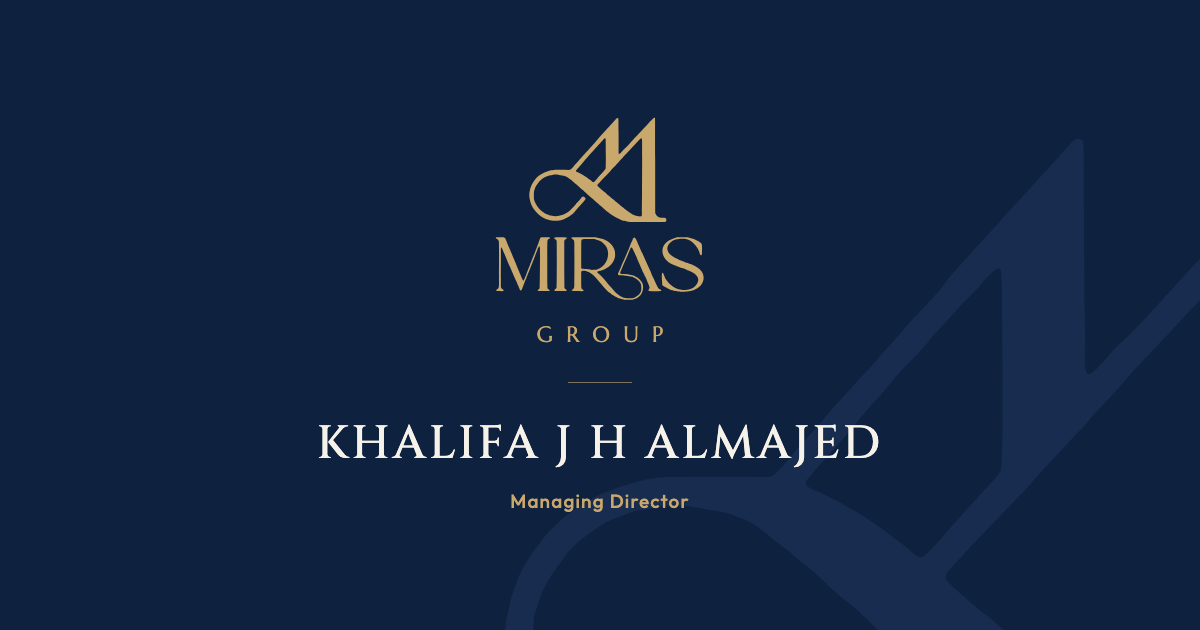
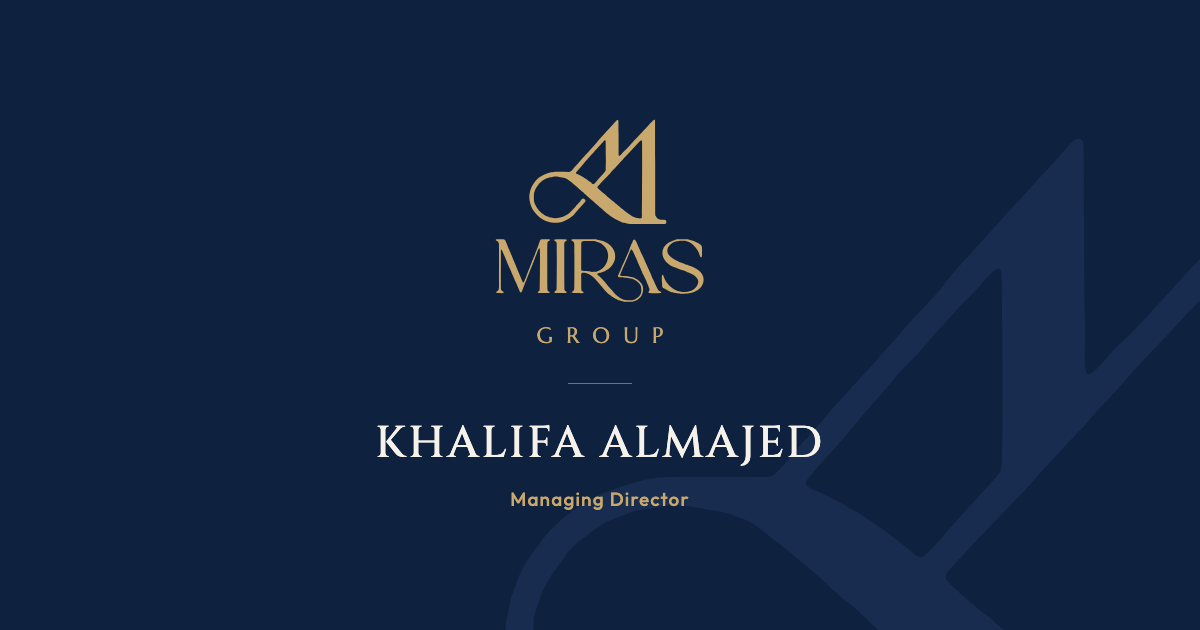
Khalifa: name without J H, Arabic title المدير التنفيذي

diff --git a/team/index.html b/team/index.html
@@ -8,4 +8,4 @@ svg{width:150px;display:block}nav{display:grid;gap:12px;width:100%;max-width:380
 a{display:flex;flex-direction:column;align-items:center;gap:6px;padding:22px 16px;border-radius:20px;background:#F6F2EA;text-decoration:none;text-align:center;transition:transform .2s}
 a:hover{transform:translateY(-2px)}.n{font-family:Cinzel,serif;font-weight:500;font-size:20px;letter-spacing:.07em}
 .a{font-family:'Noto Kufi Arabic',sans-serif;font-weight:600;font-size:17px}.r{margin-top:4px;font-size:12px;font-weight:500;letter-spacing:.04em;color:#87652F}</style>
-</head><body><svg viewBox="0 0 2752 2400" style="width:150px;display:block"><path fill="#C9A86E" fill-rule="evenodd" d="M1690.0 2393.9C1683.6 2393.4 1676.5 2391.6 1661.5 2386.7C1650.5 2383.2 1639.0 2379.7 1636.0 2379.0C1610.7 2373.2 1550.6 2341.5 1523.0 2319.5C1518.3 2315.8 1508.7 2308.8 1501.5 2304.0C1484.5 2292.4 1458.2 2266.2 1430.4 2233.0C1425.6 2227.2 1416.7 2217.1 1410.6 2210.5C1395.9 2194.6 1387.7 2185.3 1373.9 2168.9C1348.5 2138.7 1325.8 2112.8 1312.1 2098.5C1304.0 2090.1 1293.5 2079.0 1288.5 2073.8C1273.8 2058.4 1236.0 2034.0 1218.0 2028.4C1213.3 2027.0 1204.7 2024.3 1198.9 2022.4C1174.5 2014.7 1143.4 2014.6 1135.3 2022.2C1129.5 2027.7 1129.6 2025.5 1129.8 2131.5C1130.0 2251.8 1129.1 2245.9 1149.4 2259.5C1164.3 2269.4 1165.7 2274.9 1154.4 2279.6C1146.1 2283.1 1110.5 2283.8 1094.0 2280.9C1091.0 2280.3 1071.6 2279.6 1051.0 2279.1C1020.6 2278.5 1012.8 2278.1 1010.0 2276.9C1000.9 2272.8 1002.1 2268.8 1014.5 2261.3C1025.8 2254.5 1028.4 2252.0 1032.0 2244.5C1037.9 2232.4 1038.2 2230.3 1039.2 2182.0C1040.9 2100.0 1040.8 1685.7 1039.1 1649.5C1037.6 1617.9 1034.2 1611.1 1014.4 1599.4C992.2 1586.4 996.8 1577.7 1026.7 1575.9C1048.5 1574.6 1315.1 1575.6 1322.5 1577.0C1325.8 1577.6 1334.6 1579.6 1342.0 1581.5C1349.4 1583.4 1362.5 1586.1 1371.0 1587.5C1393.1 1591.3 1400.8 1593.4 1413.9 1599.4C1420.3 1602.3 1430.0 1606.1 1435.5 1607.8C1451.0 1612.7 1488.2 1635.9 1504.6 1651.1C1537.5 1681.5 1557.7 1712.1 1568.6 1748.0C1574.1 1765.8 1576.3 1813.2 1572.6 1833.1C1567.4 1861.3 1552.1 1895.5 1535.6 1915.5C1527.2 1925.7 1504.0 1951.7 1498.4 1957.2C1487.1 1968.0 1452.1 1989.7 1438.4 1994.4C1433.0 1996.2 1424.0 2000.0 1418.5 2002.7C1405.5 2009.3 1402.5 2010.2 1358.5 2020.5C1332.3 2026.6 1331.7 2031.1 1354.9 2050.3C1371.4 2064.0 1413.1 2105.1 1424.1 2118.5C1428.2 2123.4 1433.9 2130.2 1436.9 2133.5C1439.8 2136.8 1447.5 2146.0 1453.8 2154.0C1482.7 2190.2 1501.5 2212.5 1513.5 2225.0C1535.3 2247.6 1541.2 2254.1 1549.2 2264.5C1577.9 2302.2 1627.8 2342.8 1664.6 2358.5C1696.8 2372.3 1715.8 2375.5 1764.0 2375.5C1813.3 2375.4 1811.8 2375.7 1842.0 2359.1C1905.3 2324.3 1924.1 2287.5 1915.5 2215.4C1912.2 2188.2 1911.5 2185.9 1898.3 2166.0C1881.6 2140.7 1857.3 2121.6 1818.5 2103.2C1799.3 2094.0 1798.6 2093.8 1775.4 2091.0C1766.1 2089.9 1749.8 2086.9 1739.0 2084.5C1705.4 2076.9 1679.2 2074.0 1643.8 2074.0C1608.9 2074.0 1605.0 2068.7 1618.1 2039.0C1620.9 2032.7 1625.8 2021.4 1629.0 2013.9C1632.2 2006.5 1636.6 1996.8 1638.8 1992.4C1640.9 1988.1 1645.5 1977.5 1649.0 1969.0C1652.4 1960.5 1656.7 1950.5 1658.6 1946.8C1663.1 1937.9 1679.0 1901.4 1682.5 1892.0C1684.0 1887.9 1688.2 1878.4 1691.7 1871.0C1695.2 1863.6 1701.3 1849.6 1705.1 1840.0C1709.0 1830.4 1715.3 1815.8 1719.2 1807.5C1734.9 1773.9 1754.6 1728.8 1758.6 1717.0C1768.4 1688.2 1775.0 1670.1 1777.5 1664.5C1778.9 1661.2 1782.1 1653.7 1784.5 1647.8C1786.9 1641.9 1791.2 1633.1 1793.9 1628.3C1796.7 1623.4 1800.2 1615.4 1801.8 1610.5C1815.9 1567.0 1833.5 1568.8 1854.5 1615.8C1857.4 1622.3 1861.3 1630.7 1863.2 1634.5C1865.1 1638.3 1867.5 1644.0 1868.5 1647.0C1869.4 1650.0 1873.9 1660.4 1878.5 1670.0C1893.1 1700.6 1902.5 1722.1 1914.4 1751.6C1917.4 1758.8 1922.5 1770.1 1925.9 1776.6C1935.6 1795.6 1946.8 1819.5 1952.0 1832.5C1959.9 1852.3 1971.1 1877.1 1983.5 1902.5C1989.9 1915.7 1996.7 1930.4 1998.5 1935.1C2000.3 1939.8 2003.6 1947.2 2005.8 1951.6C2008.0 1955.9 2011.7 1964.0 2014.0 1969.5C2016.3 1975.0 2020.0 1983.0 2022.1 1987.2C2024.2 1991.5 2027.8 1999.5 2030.0 2005.0C2032.2 2010.6 2036.3 2020.1 2039.1 2026.2C2041.8 2032.2 2045.3 2040.4 2046.7 2044.3C2052.0 2059.3 2068.6 2097.1 2080.1 2120.8C2086.7 2134.4 2093.1 2147.8 2094.1 2150.5C2096.2 2155.7 2102.1 2168.4 2119.7 2205.4C2137.3 2242.7 2144.2 2250.6 2167.4 2260.6C2182.4 2267.0 2184.3 2276.2 2171.4 2279.9C2158.5 2283.6 2031.9 2283.3 2020.3 2279.6C2008.3 2275.8 2007.1 2268.3 2016.6 2256.9C2027.2 2244.3 2027.7 2233.6 2018.7 2212.0C2016.6 2206.8 2012.7 2196.4 2010.1 2189.0C2007.4 2181.6 2004.3 2173.6 2003.1 2171.2C2001.9 2168.9 1996.9 2157.2 1992.1 2145.2C1978.9 2113.0 1976.6 2108.0 1970.8 2097.8C1967.8 2092.7 1963.3 2083.8 1960.8 2078.0C1958.3 2072.2 1950.8 2056.4 1944.2 2042.7C1937.6 2029.1 1931.0 2014.5 1929.5 2010.2C1928.0 2006.0 1924.6 1998.2 1922.0 1993.0C1919.4 1987.8 1915.8 1979.5 1914.0 1974.5C1912.2 1969.5 1908.5 1961.1 1905.9 1955.8C1903.2 1950.4 1899.2 1941.5 1897.0 1936.0C1894.8 1930.4 1891.6 1923.2 1890.0 1919.9C1888.3 1916.6 1885.0 1908.9 1882.6 1902.7C1880.2 1896.5 1876.2 1887.4 1873.8 1882.5C1871.3 1877.5 1867.6 1869.0 1865.5 1863.5C1860.8 1850.6 1851.0 1828.0 1845.2 1816.5C1842.7 1811.5 1838.5 1802.0 1835.9 1795.2C1833.2 1788.5 1828.6 1778.1 1825.6 1772.2C1822.7 1766.3 1818.7 1757.7 1816.7 1753.0C1805.9 1727.0 1795.1 1709.0 1790.4 1709.0C1784.4 1709.0 1777.7 1715.7 1774.0 1725.6C1772.9 1728.6 1769.5 1736.5 1766.4 1743.3C1763.3 1750.0 1756.5 1766.3 1751.3 1779.5C1746.1 1792.7 1740.2 1807.5 1738.3 1812.5C1736.3 1817.5 1730.1 1831.2 1724.4 1843.1C1718.7 1855.0 1712.0 1870.1 1709.4 1876.6C1706.8 1883.1 1701.6 1895.2 1697.7 1903.5C1693.9 1911.8 1687.4 1926.8 1683.3 1937.0C1679.2 1947.2 1672.6 1962.5 1668.5 1971.0C1661.8 1985.1 1657.7 1994.6 1645.8 2024.5C1634.5 2052.6 1637.4 2055.1 1682.5 2056.1C1716.8 2056.8 1729.0 2058.2 1754.0 2064.5C1761.4 2066.3 1773.6 2068.6 1781.0 2069.5C1797.8 2071.6 1803.7 2073.0 1815.1 2078.1C1820.1 2080.3 1828.3 2083.6 1833.3 2085.6C1870.8 2100.0 1898.6 2123.2 1920.9 2159.0C1933.6 2179.2 1934.9 2182.9 1939.1 2207.5C1944.2 2237.7 1938.1 2280.7 1925.7 2302.8C1922.7 2308.1 1918.8 2315.2 1917.0 2318.5C1903.2 2343.8 1869.1 2372.4 1841.5 2381.9C1833.8 2384.6 1823.7 2388.1 1819.0 2389.8C1813.7 2391.7 1806.7 2393.3 1800.5 2394.0C1789.6 2395.2 1704.7 2395.1 1690.0 2393.9ZM2429.5 2289.0C2426.2 2288.6 2417.0 2287.9 2409.0 2287.6C2368.8 2285.8 2363.4 2284.8 2324.5 2271.8C2294.3 2261.7 2274.9 2253.2 2258.6 2243.0C2250.9 2238.3 2223.3 2222.8 2212.0 2217.0C2192.3 2206.8 2190.0 2202.0 2190.0 2171.4C2190.0 2154.9 2189.6 2147.1 2188.3 2140.0C2185.6 2125.4 2185.7 2057.7 2188.3 2050.7C2193.5 2037.4 2202.4 2041.2 2209.5 2059.5C2225.8 2101.9 2233.0 2117.7 2241.6 2129.5C2244.8 2133.9 2250.4 2141.9 2254.1 2147.2C2284.0 2190.3 2333.0 2231.7 2369.8 2245.3C2410.3 2260.3 2414.2 2261.3 2440.0 2264.5C2520.5 2274.3 2581.9 2256.8 2628.5 2210.6C2644.1 2195.2 2643.2 2196.6 2656.4 2167.3C2682.9 2108.4 2638.0 2051.0 2535.1 2012.0C2528.1 2009.4 2519.2 2005.6 2515.2 2003.6C2504.9 1998.4 2496.3 1995.1 2462.5 1983.5C2446.0 1977.8 2422.8 1969.8 2410.9 1965.7C2399.1 1961.6 2386.0 1956.8 2381.9 1955.0C2377.8 1953.2 2368.4 1949.6 2361.0 1947.0C2226.1 1900.2 2160.4 1787.3 2210.3 1688.4C2226.0 1657.3 2264.4 1623.1 2299.4 1609.0C2304.4 1607.0 2313.4 1602.8 2319.5 1599.7C2327.4 1595.6 2333.9 1593.2 2342.5 1591.1C2349.1 1589.4 2359.3 1586.3 2365.2 1584.0C2386.4 1576.0 2380.8 1576.5 2454.5 1576.5C2528.6 1576.5 2521.5 1575.8 2557.5 1586.0C2565.2 1588.2 2576.0 1591.1 2581.5 1592.4C2616.6 1600.7 2675.6 1630.7 2699.7 1652.4C2713.0 1664.4 2715.1 1682.4 2713.0 1765.5C2712.0 1802.0 2710.9 1807.9 2703.9 1811.6C2695.2 1816.0 2688.4 1807.6 2682.1 1784.5C2678.3 1770.3 2665.6 1740.3 2659.2 1730.3C2656.4 1726.0 2651.3 1717.7 2647.7 1711.8C2623.3 1671.6 2576.3 1627.7 2542.3 1613.2C2534.0 1609.6 2496.2 1598.3 2488.5 1597.1C2452.2 1591.3 2403.5 1593.9 2379.4 1603.0C2373.5 1605.2 2363.7 1608.4 2357.7 1610.0C2333.6 1616.7 2312.9 1630.1 2289.0 1654.7C2271.4 1672.6 2264.1 1687.3 2259.5 1713.7C2251.2 1761.3 2287.3 1808.0 2363.9 1848.7C2394.8 1865.1 2420.1 1877.0 2435.0 1882.2C2450.6 1887.6 2463.5 1892.2 2491.0 1902.4C2500.7 1905.9 2512.7 1910.0 2517.8 1911.4C2522.8 1912.9 2532.2 1916.0 2538.7 1918.4C2545.2 1920.8 2554.9 1924.1 2560.2 1925.8C2565.5 1927.5 2574.9 1931.5 2581.2 1934.6C2587.4 1937.7 2596.0 1941.7 2600.3 1943.5C2639.8 1960.2 2690.0 1997.5 2708.1 2023.7C2744.6 2076.5 2742.7 2144.8 2703.4 2197.3C2671.7 2239.6 2599.7 2277.7 2542.4 2282.5C2533.0 2283.3 2518.6 2285.1 2510.4 2286.6C2494.5 2289.5 2443.8 2291.0 2429.5 2289.0ZM71.9 2281.6C71.6 2281.3 60.1 2280.6 46.4 2280.1C19.3 2279.2 15.0 2278.3 12.8 2273.5C11.0 2269.5 13.2 2266.9 23.0 2261.1C50.5 2245.1 53.7 2233.3 52.1 2152.0C51.6 2124.4 51.7 2028.5 52.3 1916.0C53.4 1709.6 52.7 1640.8 49.6 1629.5C45.0 1613.2 37.2 1603.7 22.3 1596.3C6.3 1588.4 5.5 1580.1 20.5 1577.0C27.7 1575.5 99.5 1574.8 109.5 1576.1C126.8 1578.4 134.6 1586.0 141.5 1607.0C143.0 1611.7 146.5 1620.5 149.3 1626.5C152.0 1632.5 156.0 1642.3 158.1 1648.3C160.2 1654.2 164.0 1663.4 166.4 1668.8C168.9 1674.1 172.2 1682.2 173.9 1686.6C175.5 1691.1 179.1 1699.2 181.8 1704.6C184.5 1710.1 188.2 1718.5 190.0 1723.5C191.8 1728.5 195.3 1736.5 197.7 1741.4C200.1 1746.3 203.5 1754.1 205.1 1758.9C206.8 1763.6 210.6 1772.7 213.7 1779.0C216.7 1785.3 220.7 1794.9 222.6 1800.3C224.5 1805.7 227.9 1814.0 230.1 1818.8C232.4 1823.6 236.3 1833.3 238.9 1840.5C241.6 1847.7 245.4 1856.9 247.5 1861.0C249.5 1865.1 252.7 1872.3 254.6 1877.0C256.4 1881.7 260.1 1890.2 262.8 1896.0C265.5 1901.8 269.0 1910.3 270.5 1915.0C272.0 1919.7 275.7 1928.9 278.6 1935.5C283.9 1947.7 292.0 1967.4 301.5 1992.0C304.4 1999.4 308.9 2010.0 311.5 2015.5C314.1 2021.0 318.2 2030.5 320.5 2036.5C322.9 2042.5 326.3 2050.7 328.0 2054.5C329.8 2058.3 332.9 2066.0 335.0 2071.5C337.0 2077.0 341.0 2086.7 343.7 2093.0C346.5 2099.3 351.8 2112.1 355.6 2121.4C370.2 2157.2 375.6 2153.7 396.6 2095.0C398.1 2090.9 401.6 2082.4 404.5 2076.0C407.4 2069.7 411.2 2059.8 413.0 2054.0C414.8 2048.2 418.4 2038.7 421.0 2032.9C423.7 2027.1 427.1 2018.2 428.5 2013.2C430.0 2008.1 433.3 1999.4 435.9 1993.7C438.6 1988.1 442.1 1979.2 443.8 1974.0C445.4 1968.8 448.9 1960.1 451.4 1954.7C453.9 1949.3 457.2 1941.0 458.6 1936.2C460.1 1931.4 463.9 1921.9 467.1 1915.0C470.4 1908.1 474.6 1896.9 476.5 1890.2C478.4 1883.5 481.5 1874.9 483.4 1871.1C485.4 1867.3 488.7 1859.1 490.9 1852.8C493.0 1846.5 496.6 1837.7 498.9 1833.2C501.1 1828.7 505.0 1819.3 507.4 1812.3C509.8 1805.3 514.2 1794.3 517.2 1788.0C520.2 1781.7 524.4 1771.3 526.5 1765.0C528.5 1758.7 532.2 1748.9 534.6 1743.3C537.0 1737.7 540.5 1729.0 542.4 1723.8C544.2 1718.7 547.6 1710.2 549.8 1705.0C552.0 1699.8 554.8 1691.7 556.0 1687.0C557.2 1682.4 560.5 1673.4 563.5 1667.0C566.4 1660.7 570.0 1651.2 571.5 1646.0C572.9 1640.8 576.1 1631.5 578.4 1625.5C580.8 1619.5 583.9 1609.9 585.5 1604.3C590.6 1585.4 596.8 1579.2 612.5 1577.1C623.7 1575.6 705.7 1575.3 710.6 1576.8C724.2 1580.8 723.5 1589.4 709.0 1597.1C689.7 1607.4 686.9 1613.4 685.8 1646.5C684.8 1678.9 684.7 2093.7 685.7 2175.0C686.7 2250.8 685.9 2247.5 705.6 2260.5C720.5 2270.3 719.2 2277.7 702.1 2281.0C692.6 2282.8 586.3 2281.1 572.6 2279.0C557.1 2276.6 554.2 2269.6 565.7 2262.4C576.3 2255.8 582.2 2248.8 585.3 2239.5C588.7 2229.2 591.1 1730.7 587.9 1712.3C584.2 1691.5 579.9 1689.9 570.9 1706.0C561.4 1723.1 559.1 1727.7 557.6 1732.5C552.9 1748.2 551.4 1752.4 547.1 1761.9C544.4 1767.7 541.0 1776.3 539.5 1781.0C537.9 1785.6 534.7 1793.8 532.4 1799.2C530.0 1804.5 526.9 1813.1 525.5 1818.2C522.3 1829.7 520.3 1835.1 515.2 1846.1C513.0 1850.8 509.6 1859.8 507.5 1866.1C505.5 1872.4 501.6 1882.2 499.0 1888.0C496.4 1893.8 493.2 1901.9 492.0 1906.0C490.7 1910.1 487.2 1919.1 484.0 1926.0C480.8 1932.9 477.3 1941.9 476.1 1946.0C474.8 1950.1 471.8 1958.0 469.3 1963.4C466.9 1968.8 463.3 1977.6 461.5 1982.9C459.6 1988.2 455.7 1998.2 452.7 2005.0C449.7 2011.9 445.7 2021.8 443.7 2027.0C441.8 2032.2 438.1 2040.7 435.6 2045.9C433.1 2051.1 429.4 2060.6 427.4 2066.9C425.4 2073.3 422.4 2081.2 420.8 2084.5C419.1 2087.7 415.8 2096.5 413.4 2103.9C410.8 2111.8 407.0 2120.9 404.2 2125.9C399.2 2134.6 389.6 2158.6 379.4 2187.5C373.0 2205.9 355.3 2251.1 350.6 2261.5C342.2 2279.8 331.7 2277.7 322.3 2255.9C320.0 2250.7 313.2 2234.1 307.0 2219.0C300.8 2203.9 293.5 2186.6 290.8 2180.5C288.0 2174.4 284.0 2165.3 281.8 2160.1C279.6 2154.9 276.3 2147.5 274.3 2143.7C272.4 2139.8 268.2 2130.6 265.0 2123.1C258.1 2106.8 245.3 2078.5 241.7 2071.4C240.3 2068.6 237.3 2060.9 235.0 2054.4C232.8 2047.9 228.9 2038.7 226.4 2034.0C223.8 2029.3 219.8 2020.5 217.5 2014.5C215.1 2008.5 210.9 1998.8 208.2 1993.0C205.5 1987.2 202.5 1980.0 201.5 1977.0C200.5 1974.0 197.2 1966.5 194.2 1960.5C184.0 1940.1 168.0 1902.3 155.5 1869.5C152.6 1861.8 147.8 1850.3 144.7 1844.0C141.7 1837.7 134.4 1820.8 128.5 1806.6C122.6 1792.3 116.0 1776.8 113.8 1772.1C111.6 1767.4 107.8 1758.3 105.3 1752.0C96.5 1729.3 85.3 1710.2 81.7 1711.6C77.7 1713.1 77.5 1716.4 77.4 1773.5C76.3 2267.6 76.0 2229.2 81.6 2240.7C84.9 2247.6 93.6 2255.3 104.8 2261.3C119.0 2269.0 119.2 2274.1 105.4 2278.9C98.6 2281.2 73.5 2283.3 71.9 2281.6ZM796.5 2281.3C795.4 2281.1 792.1 2280.4 789.2 2279.9C774.3 2277.0 774.1 2268.1 788.6 2258.2C797.3 2252.4 803.9 2245.4 806.9 2239.0C810.5 2231.5 811.1 1631.2 807.6 1621.0C805.2 1614.2 799.0 1607.8 786.3 1599.2C772.1 1589.4 770.7 1583.4 781.5 1578.0C790.6 1573.4 927.3 1574.2 937.0 1578.8C944.9 1582.6 944.4 1589.1 935.7 1594.5C906.1 1612.8 907.7 1607.4 907.7 1693.0C907.8 1972.2 909.6 2236.6 911.4 2241.2C914.1 2248.3 920.1 2254.4 930.5 2260.5C939.9 2266.0 941.0 2267.2 941.0 2271.5C941.0 2279.9 932.4 2281.0 879.5 2279.6C855.1 2278.9 848.7 2279.0 839.0 2280.4C828.6 2281.9 801.7 2282.5 796.5 2281.3ZM1313.0 2003.0C1323.4 2001.8 1330.1 1999.6 1359.5 1987.4C1382.1 1978.1 1414.8 1954.3 1430.2 1936.1C1484.4 1871.8 1497.4 1783.0 1463.3 1710.0C1442.4 1665.2 1388.7 1620.8 1342.9 1610.4C1337.1 1609.1 1327.4 1606.5 1321.4 1604.6C1302.2 1598.6 1300.2 1598.5 1250.0 1598.8C1149.1 1599.5 1140.4 1600.6 1133.5 1614.5C1130.5 1620.5 1130.5 1620.5 1130.0 1785.2C1129.4 1969.7 1129.5 1977.6 1132.6 1983.5C1136.7 1991.3 1137.1 1991.4 1175.0 1992.1C1206.8 1992.7 1245.0 1997.7 1269.0 2004.5C1271.5 2005.2 1303.9 2004.1 1313.0 2003.0ZM1781.9 1376.9C1764.1 1375.2 1726.6 1369.1 1718.0 1366.5C1713.3 1365.1 1702.8 1362.4 1694.5 1360.4C1669.8 1354.6 1668.3 1354.2 1647.0 1345.3C1607.2 1328.8 1595.3 1322.7 1553.5 1297.2C1525.2 1279.9 1490.0 1254.8 1469.0 1237.0C1466.0 1234.4 1457.0 1227.2 1449.0 1221.0C1441.0 1214.8 1424.6 1200.9 1412.5 1190.1C1400.4 1179.3 1387.1 1167.6 1383.0 1164.0C1378.9 1160.4 1368.7 1151.1 1360.3 1143.3C1352.0 1135.5 1340.3 1125.2 1334.3 1120.5C1328.4 1115.7 1316.5 1105.4 1308.0 1097.5C1299.5 1089.7 1286.9 1078.6 1280.0 1072.9C1273.1 1067.3 1260.3 1055.6 1251.5 1047.0C1241.2 1036.9 1230.5 1027.6 1221.5 1021.0C1211.4 1013.6 1201.6 1004.9 1186.5 990.0C1159.8 963.9 1154.8 959.3 1141.4 949.0C1126.9 937.9 1119.2 931.1 1096.5 909.9C1086.0 900.2 1071.4 887.1 1064.0 881.0C1056.6 874.9 1045.4 865.5 1039.2 860.2C1033.0 854.9 1024.2 847.7 1019.7 844.2C1015.2 840.7 1001.4 829.8 989.0 819.9C951.1 789.7 944.1 785.3 921.0 777.0C914.7 774.7 906.4 771.7 902.7 770.4C896.5 768.1 872.7 763.7 827.6 756.4C798.0 751.7 783.8 752.1 752.0 758.5C742.9 760.3 732.4 762.1 728.5 762.5C716.8 763.6 708.1 766.0 694.0 771.7C686.6 774.8 676.7 778.6 672.0 780.1C652.8 786.7 606.0 819.0 585.8 839.7C582.2 843.4 574.1 853.7 567.8 862.5C532.6 911.8 530.8 915.2 517.0 957.5C510.8 976.5 510.8 976.5 509.9 997.5C508.9 1021.3 509.7 1067.6 511.2 1076.4C512.3 1083.4 524.8 1118.7 529.4 1128.0C558.3 1186.8 588.2 1220.5 642.5 1255.5C657.1 1264.9 660.2 1266.6 669.6 1270.0C674.5 1271.8 683.8 1275.7 690.3 1278.7C696.9 1281.7 706.1 1285.0 710.8 1286.2C715.6 1287.3 726.0 1290.0 734.0 1292.1C768.5 1301.6 810.0 1302.7 839.5 1294.9C845.5 1293.3 857.9 1290.2 866.9 1287.9C930.1 1272.2 983.4 1231.4 1062.0 1138.7C1067.2 1132.5 1079.9 1118.9 1090.2 1108.3C1102.3 1095.9 1112.5 1084.3 1119.1 1075.5C1145.8 1039.8 1155.9 1035.6 1174.3 1052.9C1191.5 1069.1 1191.0 1075.4 1171.1 1096.9C1164.5 1104.1 1155.1 1115.2 1150.3 1121.7C1145.5 1128.2 1134.3 1140.9 1125.4 1150.0C1103.5 1172.5 1062.7 1218.5 1042.2 1243.6C1035.3 1252.2 1021.8 1265.2 1006.0 1278.7C976.2 1304.2 933.1 1329.7 903.5 1339.5C896.4 1341.8 886.6 1345.4 881.8 1347.4C841.9 1364.0 745.0 1364.0 699.2 1347.4C693.8 1345.5 683.4 1342.1 676.0 1339.9C655.1 1333.6 625.2 1317.4 591.5 1293.8C544.3 1260.9 488.7 1191.0 475.3 1148.0C473.9 1143.3 470.7 1134.5 468.4 1128.5C462.9 1114.3 459.5 1101.1 458.0 1088.5C457.4 1083.0 455.8 1074.7 454.5 1070.0C448.7 1049.4 448.0 995.9 453.4 977.0C454.9 971.8 457.0 962.3 458.1 956.0C460.0 945.0 462.3 937.7 474.3 904.2C482.0 882.7 497.2 856.5 514.2 835.2C517.7 830.8 523.8 822.7 527.9 817.1C561.1 771.6 628.5 729.0 700.0 708.3C741.1 696.4 738.7 696.9 777.0 693.9C790.5 692.8 871.6 692.6 968.5 693.4C991.2 693.6 996.5 689.5 1034.3 643.2C1040.0 636.2 1048.7 626.1 1053.6 620.6C1079.0 592.5 1086.1 584.4 1095.5 573.0C1110.6 554.5 1139.4 522.7 1174.8 485.3C1183.8 475.8 1195.3 463.0 1200.3 456.8C1205.3 450.6 1215.6 439.0 1223.3 431.0C1231.0 423.0 1243.4 408.9 1250.8 399.5C1259.6 388.4 1272.2 374.5 1287.0 359.5C1310.7 335.5 1322.5 322.1 1335.2 305.4C1344.9 292.6 1358.6 276.3 1370.9 263.0C1376.3 257.2 1384.4 248.2 1389.0 243.0C1393.5 237.8 1405.4 224.7 1415.4 214.0C1440.8 186.7 1442.3 185.0 1454.5 171.0C1460.5 164.1 1473.8 149.5 1484.0 138.5C1494.2 127.5 1507.9 112.4 1514.5 105.0C1521.1 97.6 1533.5 84.1 1542.1 75.0C1550.7 65.9 1561.3 54.4 1565.6 49.4C1570.0 44.4 1577.6 35.6 1582.6 29.8C1596.9 13.5 1604.8 9.6 1611.8 15.5C1619.0 21.5 1618.4 8.1 1619.3 188.5C1620.6 478.5 1620.6 476.5 1623.3 480.1C1629.4 488.1 1637.9 482.0 1666.7 449.0C1671.7 443.2 1688.5 426.2 1704.0 411.1C1719.4 396.1 1736.2 379.2 1741.2 373.6C1746.2 368.1 1755.8 357.4 1762.4 350.0C1769.1 342.6 1779.2 331.6 1785.0 325.5C1790.8 319.5 1798.0 311.6 1801.0 308.0C1811.8 295.2 1822.8 283.2 1842.5 263.0C1860.2 244.8 1903.3 198.6 1933.0 166.0C1938.7 159.7 1953.8 143.7 1966.6 130.5C1979.3 117.3 1997.1 98.4 2006.2 88.5C2038.7 53.0 2080.0 12.2 2084.8 10.9C2090.1 9.4 2093.5 10.4 2096.4 14.3C2098.5 17.1 2098.5 17.1 2099.2 564.3C2100.1 1314.2 2099.4 1252.6 2107.6 1272.1C2115.2 1290.2 2120.3 1296.3 2135.5 1305.8C2154.6 1317.6 2159.7 1318.8 2198.0 1319.8C2237.6 1320.9 2243.7 1324.6 2245.6 1348.5C2247.6 1371.7 2233.9 1379.3 2194.3 1377.1C2175.4 1376.0 1928.4 1376.2 1836.0 1377.3C1811.5 1377.6 1787.2 1377.4 1781.9 1376.9ZM1912.5 1301.9C1923.9 1299.0 1924.7 1296.0 1925.4 1251.5C1927.9 1107.3 1929.2 339.1 1927.1 305.5C1924.7 267.2 1920.3 267.5 1882.4 308.2C1872.0 319.4 1854.1 338.2 1842.5 350.0C1831.0 361.8 1817.2 376.4 1811.9 382.5C1806.6 388.6 1788.9 407.5 1772.4 424.5C1742.1 456.0 1718.9 481.0 1706.4 495.5C1702.7 499.9 1696.6 506.7 1693.0 510.5C1689.4 514.4 1682.6 522.1 1677.8 527.6C1673.0 533.2 1662.3 544.8 1654.0 553.5C1645.7 562.1 1634.6 574.4 1629.3 580.8C1623.9 587.2 1613.5 598.8 1606.0 606.5C1598.5 614.2 1587.9 625.5 1582.5 631.5C1577.1 637.5 1566.5 648.8 1559.0 656.5C1542.7 673.3 1530.9 686.2 1513.0 707.0C1500.2 721.8 1477.8 745.5 1437.0 787.5C1402.8 822.6 1390.5 835.4 1381.5 845.4C1376.5 850.9 1365.9 862.5 1357.8 871.2C1333.7 897.1 1333.6 896.4 1372.9 931.5C1380.2 938.1 1389.7 946.6 1393.9 950.3C1398.1 954.1 1407.3 961.6 1414.5 966.9C1421.7 972.3 1432.9 981.5 1439.5 987.4C1446.1 993.3 1457.1 1002.7 1464.0 1008.3C1470.9 1013.8 1485.0 1025.9 1495.5 1035.0C1506.0 1044.1 1521.5 1057.2 1530.0 1064.0C1538.5 1070.8 1548.2 1078.8 1551.5 1081.8C1554.7 1084.8 1564.9 1093.2 1574.0 1100.5C1583.1 1107.7 1594.5 1117.4 1599.5 1122.0C1604.5 1126.5 1613.9 1134.6 1620.5 1139.8C1627.1 1145.1 1640.4 1156.2 1650.0 1164.5C1670.9 1182.5 1679.2 1189.2 1692.5 1199.0C1698.0 1203.0 1706.1 1209.3 1710.5 1213.0C1739.1 1236.8 1793.5 1273.1 1813.1 1281.5C1845.9 1295.6 1896.4 1305.9 1912.5 1301.9ZM1299.3 849.2C1304.8 844.9 1321.7 826.7 1337.0 808.5C1347.6 796.0 1364.5 777.0 1391.6 747.5C1455.8 677.3 1450.7 686.5 1450.8 641.0C1450.8 627.5 1451.4 605.2 1452.0 591.5C1452.9 572.5 1452.9 550.1 1452.1 498.0C1451.5 460.3 1451.0 398.4 1451.0 360.5C1451.0 313.8 1450.6 290.2 1449.9 287.5C1445.9 272.8 1436.4 277.4 1412.7 305.5C1407.1 312.1 1393.7 326.5 1382.9 337.5C1372.1 348.5 1360.1 361.2 1356.3 365.6C1352.6 370.1 1341.6 382.0 1332.0 392.1C1322.4 402.2 1310.2 416.1 1305.0 423.0C1298.9 431.0 1286.3 444.9 1270.1 461.5C1256.1 475.8 1239.7 493.6 1233.7 501.0C1222.5 514.7 1205.0 534.9 1184.0 558.5C1177.6 565.6 1169.3 575.3 1165.5 580.0C1143.6 607.1 1118.1 636.6 1093.1 664.0C1060.0 700.1 1057.0 705.1 1063.6 713.0C1066.6 716.5 1069.3 718.0 1085.4 724.9C1114.3 737.3 1170.1 769.2 1199.6 790.3C1204.9 794.0 1212.4 799.2 1216.3 801.9C1220.3 804.6 1226.2 809.1 1229.5 812.0C1232.8 814.8 1240.0 820.2 1245.5 824.0C1251.0 827.8 1260.5 835.4 1266.7 840.9C1283.9 856.3 1288.6 857.4 1299.3 849.2Z"/></svg><nav><a href="../saeed/"><span class="n">SAEED TAHERI</span><span class="a">سعيد طاهري</span><span class="r">CEO</span></a><a href="../rami/"><span class="n">RAMI ZIENDDINE</span><span class="a">رامي زين الدين</span><span class="r">Head of Sales &amp; Business Development</span></a><a href="../mohamed/"><span class="n">MOHAMED AMINE HAMED</span><span class="a">محمد امين حامد</span><span class="r">Public Relations Manager</span></a><a href="../khalifa/"><span class="n">KHALIFA J H ALMAJED</span><span class="a">خليفة الماجد</span><span class="r">Managing Director</span></a><a href="../hanoof/"><span class="n">HANOOF AHMED ALQASSIMI</span><span class="a">هنوف احمد القاسمي</span><span class="r">Head of Sales &amp; Business Development</span></a><a href="../sameh/"><span class="n">SAMEH HASSAN</span><span class="a">سامح حسن</span><span class="r">Sales Manager</span></a></nav></body></html>
+</head><body><svg viewBox="0 0 2752 2400" style="width:150px;display:block"><path fill="#C9A86E" fill-rule="evenodd" d="M1690.0 2393.9C1683.6 2393.4 1676.5 2391.6 1661.5 2386.7C1650.5 2383.2 1639.0 2379.7 1636.0 2379.0C1610.7 2373.2 1550.6 2341.5 1523.0 2319.5C1518.3 2315.8 1508.7 2308.8 1501.5 2304.0C1484.5 2292.4 1458.2 2266.2 1430.4 2233.0C1425.6 2227.2 1416.7 2217.1 1410.6 2210.5C1395.9 2194.6 1387.7 2185.3 1373.9 2168.9C1348.5 2138.7 1325.8 2112.8 1312.1 2098.5C1304.0 2090.1 1293.5 2079.0 1288.5 2073.8C1273.8 2058.4 1236.0 2034.0 1218.0 2028.4C1213.3 2027.0 1204.7 2024.3 1198.9 2022.4C1174.5 2014.7 1143.4 2014.6 1135.3 2022.2C1129.5 2027.7 1129.6 2025.5 1129.8 2131.5C1130.0 2251.8 1129.1 2245.9 1149.4 2259.5C1164.3 2269.4 1165.7 2274.9 1154.4 2279.6C1146.1 2283.1 1110.5 2283.8 1094.0 2280.9C1091.0 2280.3 1071.6 2279.6 1051.0 2279.1C1020.6 2278.5 1012.8 2278.1 1010.0 2276.9C1000.9 2272.8 1002.1 2268.8 1014.5 2261.3C1025.8 2254.5 1028.4 2252.0 1032.0 2244.5C1037.9 2232.4 1038.2 2230.3 1039.2 2182.0C1040.9 2100.0 1040.8 1685.7 1039.1 1649.5C1037.6 1617.9 1034.2 1611.1 1014.4 1599.4C992.2 1586.4 996.8 1577.7 1026.7 1575.9C1048.5 1574.6 1315.1 1575.6 1322.5 1577.0C1325.8 1577.6 1334.6 1579.6 1342.0 1581.5C1349.4 1583.4 1362.5 1586.1 1371.0 1587.5C1393.1 1591.3 1400.8 1593.4 1413.9 1599.4C1420.3 1602.3 1430.0 1606.1 1435.5 1607.8C1451.0 1612.7 1488.2 1635.9 1504.6 1651.1C1537.5 1681.5 1557.7 1712.1 1568.6 1748.0C1574.1 1765.8 1576.3 1813.2 1572.6 1833.1C1567.4 1861.3 1552.1 1895.5 1535.6 1915.5C1527.2 1925.7 1504.0 1951.7 1498.4 1957.2C1487.1 1968.0 1452.1 1989.7 1438.4 1994.4C1433.0 1996.2 1424.0 2000.0 1418.5 2002.7C1405.5 2009.3 1402.5 2010.2 1358.5 2020.5C1332.3 2026.6 1331.7 2031.1 1354.9 2050.3C1371.4 2064.0 1413.1 2105.1 1424.1 2118.5C1428.2 2123.4 1433.9 2130.2 1436.9 2133.5C1439.8 2136.8 1447.5 2146.0 1453.8 2154.0C1482.7 2190.2 1501.5 2212.5 1513.5 2225.0C1535.3 2247.6 1541.2 2254.1 1549.2 2264.5C1577.9 2302.2 1627.8 2342.8 1664.6 2358.5C1696.8 2372.3 1715.8 2375.5 1764.0 2375.5C1813.3 2375.4 1811.8 2375.7 1842.0 2359.1C1905.3 2324.3 1924.1 2287.5 1915.5 2215.4C1912.2 2188.2 1911.5 2185.9 1898.3 2166.0C1881.6 2140.7 1857.3 2121.6 1818.5 2103.2C1799.3 2094.0 1798.6 2093.8 1775.4 2091.0C1766.1 2089.9 1749.8 2086.9 1739.0 2084.5C1705.4 2076.9 1679.2 2074.0 1643.8 2074.0C1608.9 2074.0 1605.0 2068.7 1618.1 2039.0C1620.9 2032.7 1625.8 2021.4 1629.0 2013.9C1632.2 2006.5 1636.6 1996.8 1638.8 1992.4C1640.9 1988.1 1645.5 1977.5 1649.0 1969.0C1652.4 1960.5 1656.7 1950.5 1658.6 1946.8C1663.1 1937.9 1679.0 1901.4 1682.5 1892.0C1684.0 1887.9 1688.2 1878.4 1691.7 1871.0C1695.2 1863.6 1701.3 1849.6 1705.1 1840.0C1709.0 1830.4 1715.3 1815.8 1719.2 1807.5C1734.9 1773.9 1754.6 1728.8 1758.6 1717.0C1768.4 1688.2 1775.0 1670.1 1777.5 1664.5C1778.9 1661.2 1782.1 1653.7 1784.5 1647.8C1786.9 1641.9 1791.2 1633.1 1793.9 1628.3C1796.7 1623.4 1800.2 1615.4 1801.8 1610.5C1815.9 1567.0 1833.5 1568.8 1854.5 1615.8C1857.4 1622.3 1861.3 1630.7 1863.2 1634.5C1865.1 1638.3 1867.5 1644.0 1868.5 1647.0C1869.4 1650.0 1873.9 1660.4 1878.5 1670.0C1893.1 1700.6 1902.5 1722.1 1914.4 1751.6C1917.4 1758.8 1922.5 1770.1 1925.9 1776.6C1935.6 1795.6 1946.8 1819.5 1952.0 1832.5C1959.9 1852.3 1971.1 1877.1 1983.5 1902.5C1989.9 1915.7 1996.7 1930.4 1998.5 1935.1C2000.3 1939.8 2003.6 1947.2 2005.8 1951.6C2008.0 1955.9 2011.7 1964.0 2014.0 1969.5C2016.3 1975.0 2020.0 1983.0 2022.1 1987.2C2024.2 1991.5 2027.8 1999.5 2030.0 2005.0C2032.2 2010.6 2036.3 2020.1 2039.1 2026.2C2041.8 2032.2 2045.3 2040.4 2046.7 2044.3C2052.0 2059.3 2068.6 2097.1 2080.1 2120.8C2086.7 2134.4 2093.1 2147.8 2094.1 2150.5C2096.2 2155.7 2102.1 2168.4 2119.7 2205.4C2137.3 2242.7 2144.2 2250.6 2167.4 2260.6C2182.4 2267.0 2184.3 2276.2 2171.4 2279.9C2158.5 2283.6 2031.9 2283.3 2020.3 2279.6C2008.3 2275.8 2007.1 2268.3 2016.6 2256.9C2027.2 2244.3 2027.7 2233.6 2018.7 2212.0C2016.6 2206.8 2012.7 2196.4 2010.1 2189.0C2007.4 2181.6 2004.3 2173.6 2003.1 2171.2C2001.9 2168.9 1996.9 2157.2 1992.1 2145.2C1978.9 2113.0 1976.6 2108.0 1970.8 2097.8C1967.8 2092.7 1963.3 2083.8 1960.8 2078.0C1958.3 2072.2 1950.8 2056.4 1944.2 2042.7C1937.6 2029.1 1931.0 2014.5 1929.5 2010.2C1928.0 2006.0 1924.6 1998.2 1922.0 1993.0C1919.4 1987.8 1915.8 1979.5 1914.0 1974.5C1912.2 1969.5 1908.5 1961.1 1905.9 1955.8C1903.2 1950.4 1899.2 1941.5 1897.0 1936.0C1894.8 1930.4 1891.6 1923.2 1890.0 1919.9C1888.3 1916.6 1885.0 1908.9 1882.6 1902.7C1880.2 1896.5 1876.2 1887.4 1873.8 1882.5C1871.3 1877.5 1867.6 1869.0 1865.5 1863.5C1860.8 1850.6 1851.0 1828.0 1845.2 1816.5C1842.7 1811.5 1838.5 1802.0 1835.9 1795.2C1833.2 1788.5 1828.6 1778.1 1825.6 1772.2C1822.7 1766.3 1818.7 1757.7 1816.7 1753.0C1805.9 1727.0 1795.1 1709.0 1790.4 1709.0C1784.4 1709.0 1777.7 1715.7 1774.0 1725.6C1772.9 1728.6 1769.5 1736.5 1766.4 1743.3C1763.3 1750.0 1756.5 1766.3 1751.3 1779.5C1746.1 1792.7 1740.2 1807.5 1738.3 1812.5C1736.3 1817.5 1730.1 1831.2 1724.4 1843.1C1718.7 1855.0 1712.0 1870.1 1709.4 1876.6C1706.8 1883.1 1701.6 1895.2 1697.7 1903.5C1693.9 1911.8 1687.4 1926.8 1683.3 1937.0C1679.2 1947.2 1672.6 1962.5 1668.5 1971.0C1661.8 1985.1 1657.7 1994.6 1645.8 2024.5C1634.5 2052.6 1637.4 2055.1 1682.5 2056.1C1716.8 2056.8 1729.0 2058.2 1754.0 2064.5C1761.4 2066.3 1773.6 2068.6 1781.0 2069.5C1797.8 2071.6 1803.7 2073.0 1815.1 2078.1C1820.1 2080.3 1828.3 2083.6 1833.3 2085.6C1870.8 2100.0 1898.6 2123.2 1920.9 2159.0C1933.6 2179.2 1934.9 2182.9 1939.1 2207.5C1944.2 2237.7 1938.1 2280.7 1925.7 2302.8C1922.7 2308.1 1918.8 2315.2 1917.0 2318.5C1903.2 2343.8 1869.1 2372.4 1841.5 2381.9C1833.8 2384.6 1823.7 2388.1 1819.0 2389.8C1813.7 2391.7 1806.7 2393.3 1800.5 2394.0C1789.6 2395.2 1704.7 2395.1 1690.0 2393.9ZM2429.5 2289.0C2426.2 2288.6 2417.0 2287.9 2409.0 2287.6C2368.8 2285.8 2363.4 2284.8 2324.5 2271.8C2294.3 2261.7 2274.9 2253.2 2258.6 2243.0C2250.9 2238.3 2223.3 2222.8 2212.0 2217.0C2192.3 2206.8 2190.0 2202.0 2190.0 2171.4C2190.0 2154.9 2189.6 2147.1 2188.3 2140.0C2185.6 2125.4 2185.7 2057.7 2188.3 2050.7C2193.5 2037.4 2202.4 2041.2 2209.5 2059.5C2225.8 2101.9 2233.0 2117.7 2241.6 2129.5C2244.8 2133.9 2250.4 2141.9 2254.1 2147.2C2284.0 2190.3 2333.0 2231.7 2369.8 2245.3C2410.3 2260.3 2414.2 2261.3 2440.0 2264.5C2520.5 2274.3 2581.9 2256.8 2628.5 2210.6C2644.1 2195.2 2643.2 2196.6 2656.4 2167.3C2682.9 2108.4 2638.0 2051.0 2535.1 2012.0C2528.1 2009.4 2519.2 2005.6 2515.2 2003.6C2504.9 1998.4 2496.3 1995.1 2462.5 1983.5C2446.0 1977.8 2422.8 1969.8 2410.9 1965.7C2399.1 1961.6 2386.0 1956.8 2381.9 1955.0C2377.8 1953.2 2368.4 1949.6 2361.0 1947.0C2226.1 1900.2 2160.4 1787.3 2210.3 1688.4C2226.0 1657.3 2264.4 1623.1 2299.4 1609.0C2304.4 1607.0 2313.4 1602.8 2319.5 1599.7C2327.4 1595.6 2333.9 1593.2 2342.5 1591.1C2349.1 1589.4 2359.3 1586.3 2365.2 1584.0C2386.4 1576.0 2380.8 1576.5 2454.5 1576.5C2528.6 1576.5 2521.5 1575.8 2557.5 1586.0C2565.2 1588.2 2576.0 1591.1 2581.5 1592.4C2616.6 1600.7 2675.6 1630.7 2699.7 1652.4C2713.0 1664.4 2715.1 1682.4 2713.0 1765.5C2712.0 1802.0 2710.9 1807.9 2703.9 1811.6C2695.2 1816.0 2688.4 1807.6 2682.1 1784.5C2678.3 1770.3 2665.6 1740.3 2659.2 1730.3C2656.4 1726.0 2651.3 1717.7 2647.7 1711.8C2623.3 1671.6 2576.3 1627.7 2542.3 1613.2C2534.0 1609.6 2496.2 1598.3 2488.5 1597.1C2452.2 1591.3 2403.5 1593.9 2379.4 1603.0C2373.5 1605.2 2363.7 1608.4 2357.7 1610.0C2333.6 1616.7 2312.9 1630.1 2289.0 1654.7C2271.4 1672.6 2264.1 1687.3 2259.5 1713.7C2251.2 1761.3 2287.3 1808.0 2363.9 1848.7C2394.8 1865.1 2420.1 1877.0 2435.0 1882.2C2450.6 1887.6 2463.5 1892.2 2491.0 1902.4C2500.7 1905.9 2512.7 1910.0 2517.8 1911.4C2522.8 1912.9 2532.2 1916.0 2538.7 1918.4C2545.2 1920.8 2554.9 1924.1 2560.2 1925.8C2565.5 1927.5 2574.9 1931.5 2581.2 1934.6C2587.4 1937.7 2596.0 1941.7 2600.3 1943.5C2639.8 1960.2 2690.0 1997.5 2708.1 2023.7C2744.6 2076.5 2742.7 2144.8 2703.4 2197.3C2671.7 2239.6 2599.7 2277.7 2542.4 2282.5C2533.0 2283.3 2518.6 2285.1 2510.4 2286.6C2494.5 2289.5 2443.8 2291.0 2429.5 2289.0ZM71.9 2281.6C71.6 2281.3 60.1 2280.6 46.4 2280.1C19.3 2279.2 15.0 2278.3 12.8 2273.5C11.0 2269.5 13.2 2266.9 23.0 2261.1C50.5 2245.1 53.7 2233.3 52.1 2152.0C51.6 2124.4 51.7 2028.5 52.3 1916.0C53.4 1709.6 52.7 1640.8 49.6 1629.5C45.0 1613.2 37.2 1603.7 22.3 1596.3C6.3 1588.4 5.5 1580.1 20.5 1577.0C27.7 1575.5 99.5 1574.8 109.5 1576.1C126.8 1578.4 134.6 1586.0 141.5 1607.0C143.0 1611.7 146.5 1620.5 149.3 1626.5C152.0 1632.5 156.0 1642.3 158.1 1648.3C160.2 1654.2 164.0 1663.4 166.4 1668.8C168.9 1674.1 172.2 1682.2 173.9 1686.6C175.5 1691.1 179.1 1699.2 181.8 1704.6C184.5 1710.1 188.2 1718.5 190.0 1723.5C191.8 1728.5 195.3 1736.5 197.7 1741.4C200.1 1746.3 203.5 1754.1 205.1 1758.9C206.8 1763.6 210.6 1772.7 213.7 1779.0C216.7 1785.3 220.7 1794.9 222.6 1800.3C224.5 1805.7 227.9 1814.0 230.1 1818.8C232.4 1823.6 236.3 1833.3 238.9 1840.5C241.6 1847.7 245.4 1856.9 247.5 1861.0C249.5 1865.1 252.7 1872.3 254.6 1877.0C256.4 1881.7 260.1 1890.2 262.8 1896.0C265.5 1901.8 269.0 1910.3 270.5 1915.0C272.0 1919.7 275.7 1928.9 278.6 1935.5C283.9 1947.7 292.0 1967.4 301.5 1992.0C304.4 1999.4 308.9 2010.0 311.5 2015.5C314.1 2021.0 318.2 2030.5 320.5 2036.5C322.9 2042.5 326.3 2050.7 328.0 2054.5C329.8 2058.3 332.9 2066.0 335.0 2071.5C337.0 2077.0 341.0 2086.7 343.7 2093.0C346.5 2099.3 351.8 2112.1 355.6 2121.4C370.2 2157.2 375.6 2153.7 396.6 2095.0C398.1 2090.9 401.6 2082.4 404.5 2076.0C407.4 2069.7 411.2 2059.8 413.0 2054.0C414.8 2048.2 418.4 2038.7 421.0 2032.9C423.7 2027.1 427.1 2018.2 428.5 2013.2C430.0 2008.1 433.3 1999.4 435.9 1993.7C438.6 1988.1 442.1 1979.2 443.8 1974.0C445.4 1968.8 448.9 1960.1 451.4 1954.7C453.9 1949.3 457.2 1941.0 458.6 1936.2C460.1 1931.4 463.9 1921.9 467.1 1915.0C470.4 1908.1 474.6 1896.9 476.5 1890.2C478.4 1883.5 481.5 1874.9 483.4 1871.1C485.4 1867.3 488.7 1859.1 490.9 1852.8C493.0 1846.5 496.6 1837.7 498.9 1833.2C501.1 1828.7 505.0 1819.3 507.4 1812.3C509.8 1805.3 514.2 1794.3 517.2 1788.0C520.2 1781.7 524.4 1771.3 526.5 1765.0C528.5 1758.7 532.2 1748.9 534.6 1743.3C537.0 1737.7 540.5 1729.0 542.4 1723.8C544.2 1718.7 547.6 1710.2 549.8 1705.0C552.0 1699.8 554.8 1691.7 556.0 1687.0C557.2 1682.4 560.5 1673.4 563.5 1667.0C566.4 1660.7 570.0 1651.2 571.5 1646.0C572.9 1640.8 576.1 1631.5 578.4 1625.5C580.8 1619.5 583.9 1609.9 585.5 1604.3C590.6 1585.4 596.8 1579.2 612.5 1577.1C623.7 1575.6 705.7 1575.3 710.6 1576.8C724.2 1580.8 723.5 1589.4 709.0 1597.1C689.7 1607.4 686.9 1613.4 685.8 1646.5C684.8 1678.9 684.7 2093.7 685.7 2175.0C686.7 2250.8 685.9 2247.5 705.6 2260.5C720.5 2270.3 719.2 2277.7 702.1 2281.0C692.6 2282.8 586.3 2281.1 572.6 2279.0C557.1 2276.6 554.2 2269.6 565.7 2262.4C576.3 2255.8 582.2 2248.8 585.3 2239.5C588.7 2229.2 591.1 1730.7 587.9 1712.3C584.2 1691.5 579.9 1689.9 570.9 1706.0C561.4 1723.1 559.1 1727.7 557.6 1732.5C552.9 1748.2 551.4 1752.4 547.1 1761.9C544.4 1767.7 541.0 1776.3 539.5 1781.0C537.9 1785.6 534.7 1793.8 532.4 1799.2C530.0 1804.5 526.9 1813.1 525.5 1818.2C522.3 1829.7 520.3 1835.1 515.2 1846.1C513.0 1850.8 509.6 1859.8 507.5 1866.1C505.5 1872.4 501.6 1882.2 499.0 1888.0C496.4 1893.8 493.2 1901.9 492.0 1906.0C490.7 1910.1 487.2 1919.1 484.0 1926.0C480.8 1932.9 477.3 1941.9 476.1 1946.0C474.8 1950.1 471.8 1958.0 469.3 1963.4C466.9 1968.8 463.3 1977.6 461.5 1982.9C459.6 1988.2 455.7 1998.2 452.7 2005.0C449.7 2011.9 445.7 2021.8 443.7 2027.0C441.8 2032.2 438.1 2040.7 435.6 2045.9C433.1 2051.1 429.4 2060.6 427.4 2066.9C425.4 2073.3 422.4 2081.2 420.8 2084.5C419.1 2087.7 415.8 2096.5 413.4 2103.9C410.8 2111.8 407.0 2120.9 404.2 2125.9C399.2 2134.6 389.6 2158.6 379.4 2187.5C373.0 2205.9 355.3 2251.1 350.6 2261.5C342.2 2279.8 331.7 2277.7 322.3 2255.9C320.0 2250.7 313.2 2234.1 307.0 2219.0C300.8 2203.9 293.5 2186.6 290.8 2180.5C288.0 2174.4 284.0 2165.3 281.8 2160.1C279.6 2154.9 276.3 2147.5 274.3 2143.7C272.4 2139.8 268.2 2130.6 265.0 2123.1C258.1 2106.8 245.3 2078.5 241.7 2071.4C240.3 2068.6 237.3 2060.9 235.0 2054.4C232.8 2047.9 228.9 2038.7 226.4 2034.0C223.8 2029.3 219.8 2020.5 217.5 2014.5C215.1 2008.5 210.9 1998.8 208.2 1993.0C205.5 1987.2 202.5 1980.0 201.5 1977.0C200.5 1974.0 197.2 1966.5 194.2 1960.5C184.0 1940.1 168.0 1902.3 155.5 1869.5C152.6 1861.8 147.8 1850.3 144.7 1844.0C141.7 1837.7 134.4 1820.8 128.5 1806.6C122.6 1792.3 116.0 1776.8 113.8 1772.1C111.6 1767.4 107.8 1758.3 105.3 1752.0C96.5 1729.3 85.3 1710.2 81.7 1711.6C77.7 1713.1 77.5 1716.4 77.4 1773.5C76.3 2267.6 76.0 2229.2 81.6 2240.7C84.9 2247.6 93.6 2255.3 104.8 2261.3C119.0 2269.0 119.2 2274.1 105.4 2278.9C98.6 2281.2 73.5 2283.3 71.9 2281.6ZM796.5 2281.3C795.4 2281.1 792.1 2280.4 789.2 2279.9C774.3 2277.0 774.1 2268.1 788.6 2258.2C797.3 2252.4 803.9 2245.4 806.9 2239.0C810.5 2231.5 811.1 1631.2 807.6 1621.0C805.2 1614.2 799.0 1607.8 786.3 1599.2C772.1 1589.4 770.7 1583.4 781.5 1578.0C790.6 1573.4 927.3 1574.2 937.0 1578.8C944.9 1582.6 944.4 1589.1 935.7 1594.5C906.1 1612.8 907.7 1607.4 907.7 1693.0C907.8 1972.2 909.6 2236.6 911.4 2241.2C914.1 2248.3 920.1 2254.4 930.5 2260.5C939.9 2266.0 941.0 2267.2 941.0 2271.5C941.0 2279.9 932.4 2281.0 879.5 2279.6C855.1 2278.9 848.7 2279.0 839.0 2280.4C828.6 2281.9 801.7 2282.5 796.5 2281.3ZM1313.0 2003.0C1323.4 2001.8 1330.1 1999.6 1359.5 1987.4C1382.1 1978.1 1414.8 1954.3 1430.2 1936.1C1484.4 1871.8 1497.4 1783.0 1463.3 1710.0C1442.4 1665.2 1388.7 1620.8 1342.9 1610.4C1337.1 1609.1 1327.4 1606.5 1321.4 1604.6C1302.2 1598.6 1300.2 1598.5 1250.0 1598.8C1149.1 1599.5 1140.4 1600.6 1133.5 1614.5C1130.5 1620.5 1130.5 1620.5 1130.0 1785.2C1129.4 1969.7 1129.5 1977.6 1132.6 1983.5C1136.7 1991.3 1137.1 1991.4 1175.0 1992.1C1206.8 1992.7 1245.0 1997.7 1269.0 2004.5C1271.5 2005.2 1303.9 2004.1 1313.0 2003.0ZM1781.9 1376.9C1764.1 1375.2 1726.6 1369.1 1718.0 1366.5C1713.3 1365.1 1702.8 1362.4 1694.5 1360.4C1669.8 1354.6 1668.3 1354.2 1647.0 1345.3C1607.2 1328.8 1595.3 1322.7 1553.5 1297.2C1525.2 1279.9 1490.0 1254.8 1469.0 1237.0C1466.0 1234.4 1457.0 1227.2 1449.0 1221.0C1441.0 1214.8 1424.6 1200.9 1412.5 1190.1C1400.4 1179.3 1387.1 1167.6 1383.0 1164.0C1378.9 1160.4 1368.7 1151.1 1360.3 1143.3C1352.0 1135.5 1340.3 1125.2 1334.3 1120.5C1328.4 1115.7 1316.5 1105.4 1308.0 1097.5C1299.5 1089.7 1286.9 1078.6 1280.0 1072.9C1273.1 1067.3 1260.3 1055.6 1251.5 1047.0C1241.2 1036.9 1230.5 1027.6 1221.5 1021.0C1211.4 1013.6 1201.6 1004.9 1186.5 990.0C1159.8 963.9 1154.8 959.3 1141.4 949.0C1126.9 937.9 1119.2 931.1 1096.5 909.9C1086.0 900.2 1071.4 887.1 1064.0 881.0C1056.6 874.9 1045.4 865.5 1039.2 860.2C1033.0 854.9 1024.2 847.7 1019.7 844.2C1015.2 840.7 1001.4 829.8 989.0 819.9C951.1 789.7 944.1 785.3 921.0 777.0C914.7 774.7 906.4 771.7 902.7 770.4C896.5 768.1 872.7 763.7 827.6 756.4C798.0 751.7 783.8 752.1 752.0 758.5C742.9 760.3 732.4 762.1 728.5 762.5C716.8 763.6 708.1 766.0 694.0 771.7C686.6 774.8 676.7 778.6 672.0 780.1C652.8 786.7 606.0 819.0 585.8 839.7C582.2 843.4 574.1 853.7 567.8 862.5C532.6 911.8 530.8 915.2 517.0 957.5C510.8 976.5 510.8 976.5 509.9 997.5C508.9 1021.3 509.7 1067.6 511.2 1076.4C512.3 1083.4 524.8 1118.7 529.4 1128.0C558.3 1186.8 588.2 1220.5 642.5 1255.5C657.1 1264.9 660.2 1266.6 669.6 1270.0C674.5 1271.8 683.8 1275.7 690.3 1278.7C696.9 1281.7 706.1 1285.0 710.8 1286.2C715.6 1287.3 726.0 1290.0 734.0 1292.1C768.5 1301.6 810.0 1302.7 839.5 1294.9C845.5 1293.3 857.9 1290.2 866.9 1287.9C930.1 1272.2 983.4 1231.4 1062.0 1138.7C1067.2 1132.5 1079.9 1118.9 1090.2 1108.3C1102.3 1095.9 1112.5 1084.3 1119.1 1075.5C1145.8 1039.8 1155.9 1035.6 1174.3 1052.9C1191.5 1069.1 1191.0 1075.4 1171.1 1096.9C1164.5 1104.1 1155.1 1115.2 1150.3 1121.7C1145.5 1128.2 1134.3 1140.9 1125.4 1150.0C1103.5 1172.5 1062.7 1218.5 1042.2 1243.6C1035.3 1252.2 1021.8 1265.2 1006.0 1278.7C976.2 1304.2 933.1 1329.7 903.5 1339.5C896.4 1341.8 886.6 1345.4 881.8 1347.4C841.9 1364.0 745.0 1364.0 699.2 1347.4C693.8 1345.5 683.4 1342.1 676.0 1339.9C655.1 1333.6 625.2 1317.4 591.5 1293.8C544.3 1260.9 488.7 1191.0 475.3 1148.0C473.9 1143.3 470.7 1134.5 468.4 1128.5C462.9 1114.3 459.5 1101.1 458.0 1088.5C457.4 1083.0 455.8 1074.7 454.5 1070.0C448.7 1049.4 448.0 995.9 453.4 977.0C454.9 971.8 457.0 962.3 458.1 956.0C460.0 945.0 462.3 937.7 474.3 904.2C482.0 882.7 497.2 856.5 514.2 835.2C517.7 830.8 523.8 822.7 527.9 817.1C561.1 771.6 628.5 729.0 700.0 708.3C741.1 696.4 738.7 696.9 777.0 693.9C790.5 692.8 871.6 692.6 968.5 693.4C991.2 693.6 996.5 689.5 1034.3 643.2C1040.0 636.2 1048.7 626.1 1053.6 620.6C1079.0 592.5 1086.1 584.4 1095.5 573.0C1110.6 554.5 1139.4 522.7 1174.8 485.3C1183.8 475.8 1195.3 463.0 1200.3 456.8C1205.3 450.6 1215.6 439.0 1223.3 431.0C1231.0 423.0 1243.4 408.9 1250.8 399.5C1259.6 388.4 1272.2 374.5 1287.0 359.5C1310.7 335.5 1322.5 322.1 1335.2 305.4C1344.9 292.6 1358.6 276.3 1370.9 263.0C1376.3 257.2 1384.4 248.2 1389.0 243.0C1393.5 237.8 1405.4 224.7 1415.4 214.0C1440.8 186.7 1442.3 185.0 1454.5 171.0C1460.5 164.1 1473.8 149.5 1484.0 138.5C1494.2 127.5 1507.9 112.4 1514.5 105.0C1521.1 97.6 1533.5 84.1 1542.1 75.0C1550.7 65.9 1561.3 54.4 1565.6 49.4C1570.0 44.4 1577.6 35.6 1582.6 29.8C1596.9 13.5 1604.8 9.6 1611.8 15.5C1619.0 21.5 1618.4 8.1 1619.3 188.5C1620.6 478.5 1620.6 476.5 1623.3 480.1C1629.4 488.1 1637.9 482.0 1666.7 449.0C1671.7 443.2 1688.5 426.2 1704.0 411.1C1719.4 396.1 1736.2 379.2 1741.2 373.6C1746.2 368.1 1755.8 357.4 1762.4 350.0C1769.1 342.6 1779.2 331.6 1785.0 325.5C1790.8 319.5 1798.0 311.6 1801.0 308.0C1811.8 295.2 1822.8 283.2 1842.5 263.0C1860.2 244.8 1903.3 198.6 1933.0 166.0C1938.7 159.7 1953.8 143.7 1966.6 130.5C1979.3 117.3 1997.1 98.4 2006.2 88.5C2038.7 53.0 2080.0 12.2 2084.8 10.9C2090.1 9.4 2093.5 10.4 2096.4 14.3C2098.5 17.1 2098.5 17.1 2099.2 564.3C2100.1 1314.2 2099.4 1252.6 2107.6 1272.1C2115.2 1290.2 2120.3 1296.3 2135.5 1305.8C2154.6 1317.6 2159.7 1318.8 2198.0 1319.8C2237.6 1320.9 2243.7 1324.6 2245.6 1348.5C2247.6 1371.7 2233.9 1379.3 2194.3 1377.1C2175.4 1376.0 1928.4 1376.2 1836.0 1377.3C1811.5 1377.6 1787.2 1377.4 1781.9 1376.9ZM1912.5 1301.9C1923.9 1299.0 1924.7 1296.0 1925.4 1251.5C1927.9 1107.3 1929.2 339.1 1927.1 305.5C1924.7 267.2 1920.3 267.5 1882.4 308.2C1872.0 319.4 1854.1 338.2 1842.5 350.0C1831.0 361.8 1817.2 376.4 1811.9 382.5C1806.6 388.6 1788.9 407.5 1772.4 424.5C1742.1 456.0 1718.9 481.0 1706.4 495.5C1702.7 499.9 1696.6 506.7 1693.0 510.5C1689.4 514.4 1682.6 522.1 1677.8 527.6C1673.0 533.2 1662.3 544.8 1654.0 553.5C1645.7 562.1 1634.6 574.4 1629.3 580.8C1623.9 587.2 1613.5 598.8 1606.0 606.5C1598.5 614.2 1587.9 625.5 1582.5 631.5C1577.1 637.5 1566.5 648.8 1559.0 656.5C1542.7 673.3 1530.9 686.2 1513.0 707.0C1500.2 721.8 1477.8 745.5 1437.0 787.5C1402.8 822.6 1390.5 835.4 1381.5 845.4C1376.5 850.9 1365.9 862.5 1357.8 871.2C1333.7 897.1 1333.6 896.4 1372.9 931.5C1380.2 938.1 1389.7 946.6 1393.9 950.3C1398.1 954.1 1407.3 961.6 1414.5 966.9C1421.7 972.3 1432.9 981.5 1439.5 987.4C1446.1 993.3 1457.1 1002.7 1464.0 1008.3C1470.9 1013.8 1485.0 1025.9 1495.5 1035.0C1506.0 1044.1 1521.5 1057.2 1530.0 1064.0C1538.5 1070.8 1548.2 1078.8 1551.5 1081.8C1554.7 1084.8 1564.9 1093.2 1574.0 1100.5C1583.1 1107.7 1594.5 1117.4 1599.5 1122.0C1604.5 1126.5 1613.9 1134.6 1620.5 1139.8C1627.1 1145.1 1640.4 1156.2 1650.0 1164.5C1670.9 1182.5 1679.2 1189.2 1692.5 1199.0C1698.0 1203.0 1706.1 1209.3 1710.5 1213.0C1739.1 1236.8 1793.5 1273.1 1813.1 1281.5C1845.9 1295.6 1896.4 1305.9 1912.5 1301.9ZM1299.3 849.2C1304.8 844.9 1321.7 826.7 1337.0 808.5C1347.6 796.0 1364.5 777.0 1391.6 747.5C1455.8 677.3 1450.7 686.5 1450.8 641.0C1450.8 627.5 1451.4 605.2 1452.0 591.5C1452.9 572.5 1452.9 550.1 1452.1 498.0C1451.5 460.3 1451.0 398.4 1451.0 360.5C1451.0 313.8 1450.6 290.2 1449.9 287.5C1445.9 272.8 1436.4 277.4 1412.7 305.5C1407.1 312.1 1393.7 326.5 1382.9 337.5C1372.1 348.5 1360.1 361.2 1356.3 365.6C1352.6 370.1 1341.6 382.0 1332.0 392.1C1322.4 402.2 1310.2 416.1 1305.0 423.0C1298.9 431.0 1286.3 444.9 1270.1 461.5C1256.1 475.8 1239.7 493.6 1233.7 501.0C1222.5 514.7 1205.0 534.9 1184.0 558.5C1177.6 565.6 1169.3 575.3 1165.5 580.0C1143.6 607.1 1118.1 636.6 1093.1 664.0C1060.0 700.1 1057.0 705.1 1063.6 713.0C1066.6 716.5 1069.3 718.0 1085.4 724.9C1114.3 737.3 1170.1 769.2 1199.6 790.3C1204.9 794.0 1212.4 799.2 1216.3 801.9C1220.3 804.6 1226.2 809.1 1229.5 812.0C1232.8 814.8 1240.0 820.2 1245.5 824.0C1251.0 827.8 1260.5 835.4 1266.7 840.9C1283.9 856.3 1288.6 857.4 1299.3 849.2Z"/></svg><nav><a href="../saeed/"><span class="n">SAEED TAHERI</span><span class="a">سعيد طاهري</span><span class="r">CEO</span></a><a href="../rami/"><span class="n">RAMI ZIENDDINE</span><span class="a">رامي زين الدين</span><span class="r">Head of Sales &amp; Business Development</span></a><a href="../mohamed/"><span class="n">MOHAMED AMINE HAMED</span><span class="a">محمد امين حامد</span><span class="r">Public Relations Manager</span></a><a href="../hanoof/"><span class="n">HANOOF AHMED ALQASSIMI</span><span class="a">هنوف احمد القاسمي</span><span class="r">Head of Sales &amp; Business Development</span></a><a href="../sameh/"><span class="n">SAMEH HASSAN</span><span class="a">سامح حسن</span><span class="r">Sales Manager</span></a><a href="../khalifa/"><span class="n">KHALIFA ALMAJED</span><span class="a">خليفة الماجد</span><span class="r">Managing Director</span></a></nav></body></html>

diff --git a/khalifa/index.html b/khalifa/index.html
@@ -3,11 +3,11 @@
 <head>
 <meta charset="utf-8">
 <meta name="viewport" content="width=device-width, initial-scale=1, viewport-fit=cover">
-<title>Khalifa J H AlMajed · MIRAS Group</title>
-<meta name="description" content="Khalifa J H AlMajed, Managing Director at MIRAS Group, Doha, Qatar. Call, WhatsApp, email or save the contact.">
+<title>Khalifa AlMajed · MIRAS Group</title>
+<meta name="description" content="Khalifa AlMajed, Managing Director at MIRAS Group, Doha, Qatar. Call, WhatsApp, email or save the contact.">
 <meta name="theme-color" content="#0E2240">
 <meta property="og:type" content="profile">
-<meta property="og:title" content="Khalifa J H AlMajed · Managing Director, MIRAS Group">
+<meta property="og:title" content="Khalifa AlMajed · Managing Director, MIRAS Group">
 <meta property="og:description" content="Call, WhatsApp, email or save the contact.">
 <meta property="og:image" content="https://mirasrealestate.github.io/khalifa/og-image.png">
 <meta property="og:image:width" content="1200">
@@ -149,10 +149,10 @@ html[lang=ar] .foot .place{font-size:12px;letter-spacing:0}
 
   <section class="sheet">
     <div class="identity">
-      <p class="name" lang="en" dir="ltr" style="font-size:clamp(18px,5.4vw,23px);letter-spacing:.05em">KHALIFA J H ALMAJED</p>
+      <p class="name" lang="en" dir="ltr">KHALIFA ALMAJED</p>
       <p class="name-ar" lang="ar" dir="rtl">خليفة الماجد</p>
       <p class="role" lang="en" dir="ltr" style="font-size:13.5px;letter-spacing:.02em">Managing Director</p>
-      <p class="role-ar" lang="ar" dir="rtl">المدير الإداري</p>
+      <p class="role-ar" lang="ar" dir="rtl">المدير التنفيذي</p>
     </div>
 
     <div class="rule" aria-hidden="true"></div>
@@ -219,7 +219,7 @@ html[lang=ar] .foot .place{font-size:12px;letter-spacing:0}
 
   document.getElementById("share").addEventListener("click", function(){
     var url = location.href.split("#")[0];
-    var data = { title:"Khalifa J H AlMajed · MIRAS Group", text:"Khalifa J H AlMajed, Managing Director · MIRAS Group", url:url };
+    var data = { title:"Khalifa AlMajed · MIRAS Group", text:"Khalifa AlMajed, Managing Director · MIRAS Group", url:url };
     if (navigator.share) { navigator.share(data).catch(function(){}); return; }
     if (navigator.clipboard) { navigator.clipboard.writeText(url).then(function(){ say(T[cur].copied); }, function(){ window.prompt("", url); }); }
     else { window.prompt("", url); }
